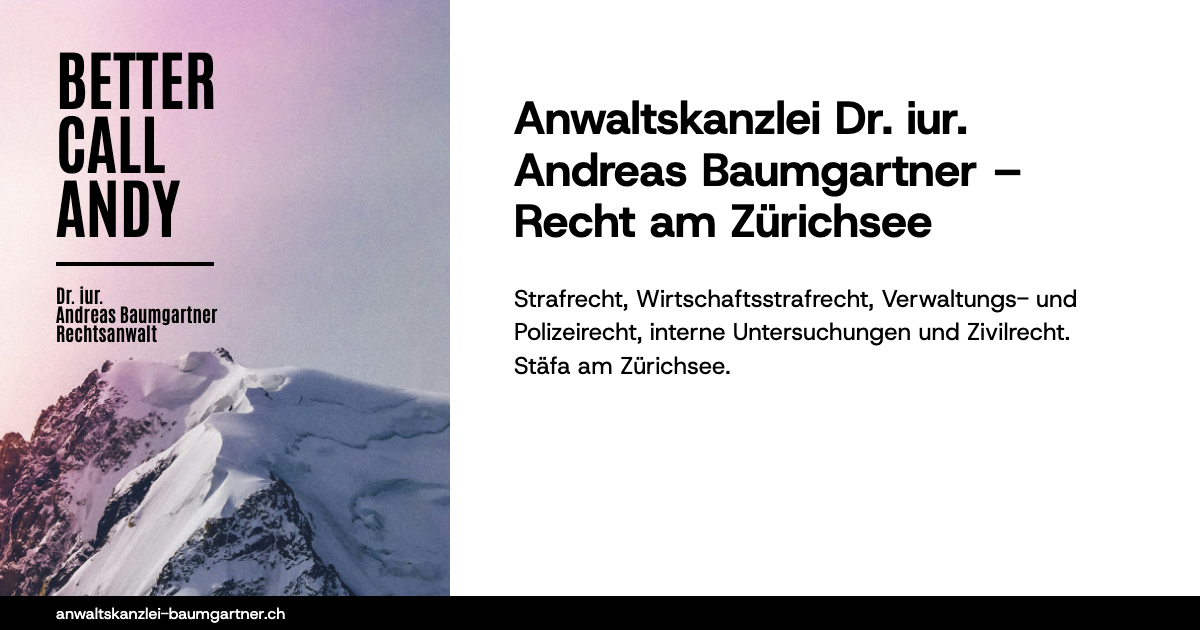
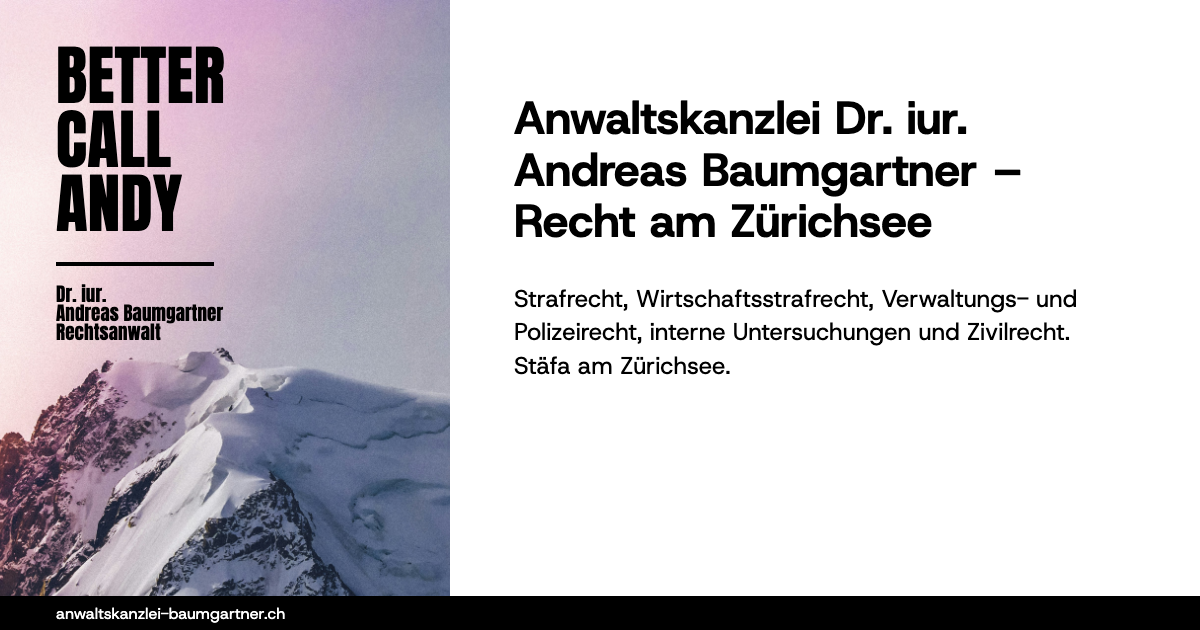
Switch the display font to Anton and add the Kontakt map
- Anton (Google font, self-hosted) replaces the Antonio stand-in for
  "Better Call Andy" and the CTA, scaled to the cap height and width of
  TT Bluescreens in the XD artboards; icon and OG image re-rendered.
- Kontakt: Mapbox map with the office and visitor parking pins, ported
  from the immosite.ch starter's map module. Mapbox only loads on this
  page; the token comes from PUBLIC_MAPBOX_TOKEN in .env. The legend uses
  the same marker icons as the map. "Route planen" links to Google Maps
  directions, and the Datenschutzerklärung covers Mapbox.
- Favicon is the "A" alone; CTA only rotates on hover, with whole-pixel
  geometry so its text doesn't jump; text-wrap pretty/balance site-wide.

The parking pin is still a placeholder position until the client
confirms where the visitor parking is.

Changed region(s): [[0.0308, 0.0603, 0.185, 0.3921], [0.0308, 0.4524, 0.185, 0.5429]]

diff --git a/src/scripts/map.ts b/src/scripts/map.ts
@@ -1,0 +1,54 @@
+// Mapbox map (see src/components/Map.astro). Settings come from src/data/site.ts via data-map.
+import { officeMarker, parkingMarker } from '../lib/markers';
+
+type Marker = { kind: 'office' | 'parking'; title: string; coordinates: [number, number] };
+type Config = { token: string; style: string; zoom: number; markers: Marker[] };
+
+const LOCALE = {
+  'ScrollZoomBlocker.CtrlMessage': 'Zum Zoomen Strg + Scrollen verwenden',
+  'ScrollZoomBlocker.CmdMessage': 'Zum Zoomen ⌘ + Scrollen verwenden',
+  'TouchPanBlocker.Message': 'Karte mit zwei Fingern bewegen',
+  'NavigationControl.ZoomIn': 'Vergrössern',
+  'NavigationControl.ZoomOut': 'Verkleinern',
+  'NavigationControl.ResetBearing': 'Nach Norden ausrichten',
+};
+
+const markerHtml = { office: officeMarker(47), parking: parkingMarker(30) };
+
+export async function initMap(el: HTMLElement) {
+  const config: Config = JSON.parse(el.dataset.map ?? '{}');
+  if (!config.token) return;
+
+  const [{ default: mapboxgl }] = await Promise.all([import('mapbox-gl'), import('mapbox-gl/dist/mapbox-gl.css')]);
+  mapboxgl.accessToken = config.token;
+
+  const map = new mapboxgl.Map({
+    container: el,
+    style: config.style,
+    center: config.markers[0].coordinates,
+    zoom: config.zoom,
+    // One finger scrolls the page, two fingers move the map
+    cooperativeGestures: true,
+    locale: LOCALE,
+  });
+  map.addControl(new mapboxgl.NavigationControl({ showCompass: false }), 'top-right');
+
+  const bounds = new mapboxgl.LngLatBounds();
+  for (const marker of config.markers) {
+    const node = document.createElement('div');
+    node.innerHTML = markerHtml[marker.kind];
+    node.title = marker.title;
+    new mapboxgl.Marker({ element: node, anchor: marker.kind === 'office' ? 'bottom' : 'center' })
+      .setLngLat(marker.coordinates)
+      .setPopup(new mapboxgl.Popup({ offset: 24, closeButton: false }).setText(marker.title))
+      .addTo(map);
+    bounds.extend(marker.coordinates);
+  }
+  // Both pins in view, but never closer than the configured zoom
+  map.fitBounds(bounds, { padding: 80, maxZoom: config.zoom, duration: 0 });
+
+  const reveal = () => el.classList.remove('opacity-0');
+  map.once('load', reveal);
+  // 'load' never fires if the style or tiles fail: reveal anyway instead of leaving an invisible area
+  map.once('error', reveal);
+}

diff --git a/scripts/assets/og.html b/scripts/assets/og.html
@@ -6,9 +6,9 @@
   body { width: 1200px; height: 630px; display: grid; grid-template-columns: 450px 1fr; grid-template-rows: 1fr 34px; background: #fff; font-family: "Host Grotesk", sans-serif; color: #000; overflow: hidden; }
   .panel { position: relative; overflow: hidden; }
   .panel img { position: absolute; inset: 0; width: 100%; height: 100%; object-fit: cover; object-position: top; transform: scale(1.1); transform-origin: top; }
-  .title { position: absolute; left: 56px; top: 44px; font: 700 65px/64px Antonio, sans-serif; letter-spacing: 0.005em; text-transform: uppercase; }
+  .title { position: absolute; left: 56px; top: 44px; font: 400 65px/64px Anton, sans-serif; letter-spacing: 0.005em; text-transform: uppercase; }
   .line { position: absolute; left: 56px; top: 262px; width: 158px; height: 4px; background: #000; }
-  .sub { position: absolute; left: 56px; top: 285px; font: 700 19px/19px Antonio, sans-serif; letter-spacing: 0.005em; }
+  .sub { position: absolute; left: 56px; top: 285px; font: 400 19px/19px Anton, sans-serif; letter-spacing: 0.005em; }
   .text { padding: 92px 72px 0 64px; }
   h1 { margin: 0; font-size: 46px; line-height: 1.12; font-weight: 700; }
   p { margin: 36px 0 0; font-size: 24px; line-height: 1.4; max-width: 600px; }

diff --git a/src/lib/markers.ts b/src/lib/markers.ts
@@ -1,0 +1,10 @@
+// Map markers, shared by the map (src/scripts/map.ts) and its legend (src/components/Map.astro),
+// so both always show the same icons. Black like the rest of the site.
+
+/** The starter's pin, `height` px tall */
+export const officeMarker = (height: number) =>
+  `<svg xmlns="http://www.w3.org/2000/svg" viewBox="0 0 40.8 52.8" width="${Math.round((height * 40.8) / 52.8)}" height="${height}" aria-hidden="true" style="display:block"><path d="M40.8,20.4A20.4,20.4,0,0,0,0,20.4C0,31.7,20.4,52.8,20.4,52.8S40.8,31.7,40.8,20.4ZM10.9,20a9.5,9.5,0,1,1,9.5,9.5A9.6,9.6,0,0,1,10.9,20Z" fill="#000"/></svg>`;
+
+/** A "P" sign, `size` px square, with a white ring so it stands out on the map */
+export const parkingMarker = (size: number) =>
+  `<span aria-hidden="true" style="display:grid;place-items:center;width:${size}px;height:${size}px;background:#000;color:#fff;font:400 ${Math.round(size * 0.63)}px/1 var(--font-anton),sans-serif;box-shadow:0 0 0 ${size >= 24 ? 2 : 1}px #fff">P</span>`;

diff --git a/scripts/assets/icon.html b/scripts/assets/icon.html
@@ -4,10 +4,10 @@
 <meta charset="utf-8">
 <link rel="stylesheet" href="fonts.css">
 <style>
-  /* Antonio's "A" is 550 px tall at 640 px and starts 95 px below its line box: centred at (1024 - 550) / 2 - 95 = 142 */
-  .icon { position: relative; width: 1024px; height: 1024px; background: #000; color: #fff; font: 700 640px/1 Antonio, sans-serif; }
+  /* Anton's "A" is 550 px tall at 640 px and starts 41 px below its line box: centred at (1024 - 550) / 2 - 41 = 196 */
+  .icon { position: relative; width: 1024px; height: 1024px; background: #000; color: #fff; font: 400 640px/1 Anton, sans-serif; }
   .circle { border-radius: 50%; }
-  .a { position: absolute; top: 142px; left: 0; right: 0; text-align: center; }
+  .a { position: absolute; top: 196px; left: 0; right: 0; text-align: center; }
 </style>
 <div class="icon"><span class="a">A</span></div>
 <script>if (new URLSearchParams(location.search).get('shape') === 'circle') document.querySelector('.icon').classList.add('circle')</script>

diff --git a/src/styles/global.css b/src/styles/global.css
@@ -34,7 +34,7 @@
 
 @theme inline {
   --font-sans: var(--font-host-grotesk);
-  --font-display: var(--font-antonio);
+  --font-display: var(--font-anton);
 }
 
 /* No orphans in running text, even line lengths in headings */
@@ -49,11 +49,11 @@
 
 /* The side panel is positioned like the artboard: one --u is one design pixel, scaled down
    with the viewport width and height so the composition never breaks out of the panel.
-   --fs shrinks the display type: Antonio (the stand-in) runs much larger than TT Bluescreens at the
-   same size. Set it to 1 once the licensed font is in. */
+   --fs shrinks the display type: the artboards were set in TT Bluescreens, and Anton at the same size runs
+   much larger, so it is scaled to Bluescreens' cap height and width. */
 .panel {
   --u: min(1px, calc(100vw / 1920), calc(100svh / 1080));
-  --fs: 0.76;
+  --fs: 0.73;
 }
 @media (width < 64rem) {
   .panel {

diff --git a/src/data/site.ts b/src/data/site.ts
@@ -29,3 +29,16 @@ export const legalNav = [
 
 /** "+41 78 343 69 13" → "tel:+41783436913" */
 export const tel = (phone: string) => `tel:${phone.replace(/\s/g, '')}`;
+
+/** Kontakt map (Mapbox). Coordinates are [longitude, latitude], the order Mapbox uses. */
+export const map = {
+  // Greyscale house style, as on the immosite.ch projects
+  style: 'mapbox://styles/marcelitoooo/ck16ms7m51nlo1cmwnqrbjuyq?optimize=true',
+  zoom: 15.5,
+  markers: [
+    // Kronenstrasse 9 (swisstopo geocoder)
+    { kind: 'office', title: 'Anwaltskanzlei Dr. iur. Andreas Baumgartner', coordinates: [8.725383, 47.242119] },
+    // TODO: position of the visitor parking, still to be confirmed by the client
+    { kind: 'parking', title: 'Besucherparkplätze (gelb markiert)', coordinates: [8.7258, 47.2419] },
+  ],
+} as const;

diff --git a/scripts/assets/fonts.css b/scripts/assets/fonts.css
@@ -1,4 +1,4 @@
 /* The site's fonts, loaded straight from node_modules for the screenshots */
 @font-face { font-family: "Host Grotesk"; src: url("../../node_modules/@fontsource-variable/host-grotesk/files/host-grotesk-latin-wght-normal.woff2") format("woff2"); font-weight: 300 800; }
-@font-face { font-family: "Antonio"; src: url("../../node_modules/@fontsource/antonio/files/antonio-latin-700-normal.woff2") format("woff2"); font-weight: 700; }
+@font-face { font-family: "Anton"; src: url("../../node_modules/@fontsource/anton/files/anton-latin-400-normal.woff2") format("woff2"); font-weight: 400; }
 html, body { margin: 0; background: transparent; }

diff --git a/README.md b/README.md
@@ -22,6 +22,10 @@ Herd proxies **https://anwaltskanzlei-baumgartner.ch.test** to the dev server (`
 - `src/components/Panel.astro` – the photo panel with "Better Call Andy". Positions are pixels from the 1920 × 1080 XD artboards multiplied by `--u` (see `src/styles/global.css`).
 - `src/assets/` – images, optimised by Astro at build time.
 
+## Map
+
+The Kontakt page shows a Mapbox map (ported from the immosite.ch starter's `map` module) with the office and the visitor parking; markers and style in `src/data/site.ts`. The public token comes from `PUBLIC_MAPBOX_TOKEN` in `.env` (not committed, see `.env.example`) and has to allow `https://anwaltskanzlei-baumgartner.ch` and `https://anwaltskanzlei-baumgartner.ch.test` in the Mapbox account, otherwise the tiles return 403. `deploy` builds locally, so `.env` must be present when building.
+
 ## Icons and Open Graph image
 
 Favicons, app icons and `public/og.png` (1200 × 630) are rendered from the HTML sources in `scripts/assets/` with headless Chrome and ImageMagick: `npm run assets`. The icon is a stand-in mark from the design (the condensed "A" on black) until there is a logo.
@@ -29,7 +33,7 @@ Favicons, app icons and `public/og.png` (1200 × 630) are rendered from the HTML
 ## Fonts
 
 - **Host Grotesk** (body text), self-hosted from Fontsource.
-- **Antonio** stands in for **TT Bluescreens Pro Bold** (the display type in the design, which used the trial version). Once a web licence is bought from TypeType, put the WOFF2 into `src/assets/fonts/`, point the `--font-antonio` entry in `astro.config.mjs` at it, and set `--fs` in `global.css` to `1`.
+- **Anton** (display type: "Better Call Andy", the CTA, the icon), self-hosted from Fontsource. The XD artboards were set in TT Bluescreens, so `--fs` in `global.css` scales Anton down to Bluescreens' cap height and width.
 
 ## Design
 
